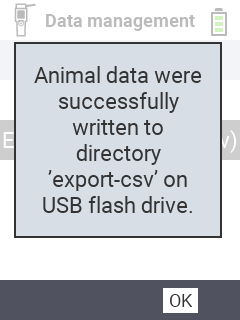
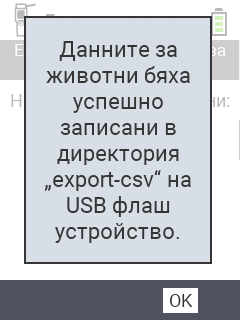
Data export: localization of images and strings used in firmware

diff --git a/content/ru/docs/data-export/usb-drive.md b/content/ru/docs/data-export/usb-drive.md
@@ -13,9 +13,9 @@ translationKey: data-export/usb-drive
 
 ## Выполнение экспорта данных {#perform-data-export}	
  
-1. Откройте пункт меню &nbsp;<img src="/icons/device.svg" width="23" align="bottom" alt="Устройство" /> `Устройство` на главном экране вашего устройства VitalControl.
+1. Откройте пункт меню &nbsp;<img src="/icons/device.svg" width="23" align="bottom" alt="Устройство" /> `{{<T "Device" >}}` на главном экране вашего устройства VitalControl.
 
-2. Вызовите подменю `Управление данными`, выберите пункт меню `Экспорт данных о животных (csv)` и подтвердите нажатием `OK`. Вам будет предложено вставить USB-флешку:
+2. Вызовите подменю `{{<T "DataManagement" >}}`, выберите пункт меню `{{<T "AnimalData" >}}` и подтвердите нажатием `{{<T "Ok" >}}`. Вам будет предложено вставить USB-флешку:
 
    ![VitalControl: Путь меню экспорта данных](../images/data-export.png "Вызов экспорта данных")
 
@@ -27,7 +27,7 @@ translationKey: data-export/usb-drive
 
    ![VitalControl: сообщение об успешном экспорте данных](../images/success-data-export.png "Успешный экспорт данных")
 
-5. Экспорт данных теперь завершен. Вы найдете четыре созданных [файла экспорта](../export-files/) в папке `export-csv` на вашей USB-флешке.
+5. Экспорт данных теперь завершен. Вы найдете четыре созданных [файла экспорта](../export-files/) в папке `{{<T "ExportAnimalData" >}}` на вашей USB-флешке.
 
    ![USB-флешка с файлами экспорта VitalControl](../images/export-files.png "Файлы экспорта на USB-флешке")
 

diff --git a/content/fr/docs/data-export/usb-drive.md b/content/fr/docs/data-export/usb-drive.md
@@ -13,9 +13,9 @@ translationKey: data-export/usb-drive
 
 ## Réaliser l'exportation des données {#perform-data-export}
 
-1. Ouvrez l'élément de menu &nbsp;<img src="/icons/device.svg" width="23" align="bottom" alt="Appareil" /> `Appareil` dans l'écran principal de votre appareil VitalControl.
+1. Ouvrez l'élément de menu &nbsp;<img src="/icons/device.svg" width="23" align="bottom" alt="Appareil" /> `{{<T "Device" >}}` dans l'écran principal de votre appareil VitalControl.
 
-2. Accédez au sous-menu `Gestion des données`, sélectionnez l'élément de menu `Exporter les données animales (csv)` et confirmez avec `OK`. Il vous sera alors demandé d'insérer une clé USB :
+2. Accédez au sous-menu `{{<T "DataManagement" >}}`, sélectionnez l'élément de menu `{{<T "AnimalData" >}}` et confirmez avec `{{<T "Ok" >}}`. Il vous sera alors demandé d'insérer une clé USB :
 
    ![VitalControl : Chemin du menu exportation des données](../images/data-export.png "Lancer l'exportation des données")
 
@@ -27,7 +27,7 @@ translationKey: data-export/usb-drive
 
    ![VitalControl : message de succès de l'exportation des données](../images/success-data-export.png "Succès de l'exportation des données")
 
-5. L'exportation des données est maintenant terminée. Vous trouverez les quatre fichiers d'exportation [fichiers d'exportation](../export-files/) dans le répertoire `export-csv` sur votre clé USB.
+5. L'exportation des données est maintenant terminée. Vous trouverez les quatre fichiers d'exportation [fichiers d'exportation](../export-files/) dans le répertoire `{{<T "ExportAnimalData" >}}` sur votre clé USB.
 
    ![Clé USB avec fichiers d'exportation VitalControl](../images/export-files.png "Fichiers d'exportation sur clé USB")
 

diff --git a/content/el/docs/data-export/usb-drive.md b/content/el/docs/data-export/usb-drive.md
@@ -13,11 +13,11 @@ translationKey: data-export/usb-drive
 
 ## Εκτέλεση εξαγωγής δεδομένων {#perform-data-export}	
 
-1. Ανοίξτε το στοιχείο μενού &nbsp;<img src="/icons/device.svg" width="23" align="bottom" alt="Συσκευή" /> `Συσκευή` στην κύρια οθόνη της συσκευής σας VitalControl.
+1. Ανοίξτε το στοιχείο μενού &nbsp;<img src="/icons/device.svg" width="23" align="bottom" alt="Συσκευή" /> `{{<T "Device" >}}` στην κύρια οθόνη της συσκευής σας VitalControl.
 
-2. Καλέστε το υπομενού `Διαχείριση δεδομένων`, επιλέξτε το στοιχείο μενού `Δεδομένα ζώων` και επιβεβαιώστε με `OK`.
+2. Καλέστε το υπομενού `{{<T "DataManagement" >}}`, επιλέξτε το στοιχείο μενού `{{<T "AnimalData" >}}` και επιβεβαιώστε με `{{<T "Ok" >}}`.
 
-3. Ανοίγει ένα άλλο υπομενού. Επιλέξτε το στοιχείο μενού `Εξαγωγή δεδομένων ζώων (csv)` και επιβεβαιώστε με `OK`.
+3. Ανοίγει ένα άλλο υπομενού. Επιλέξτε το στοιχείο μενού `{{<T "ExportAnimalData" >}}` και επιβεβαιώστε με `{{<T "Ok" >}}`.
 
 4. Τώρα σας ζητείται να εισάγετε ένα USB flash drive:
 

diff --git a/content/bg/docs/data-export/usb-drive.md b/content/bg/docs/data-export/usb-drive.md
@@ -13,11 +13,11 @@ translationKey: data-export/usb-drive
 
 ## Извършване на експорт на данни {#perform-data-export}	
 
-1. Отворете менюто &nbsp;<img src="/icons/device.svg" width="23" align="bottom" alt="Устройство" /> `Устройство` на главния екран на вашето устройство VitalControl.
+1. Отворете менюто &nbsp;<img src="/icons/device.svg" width="23" align="bottom" alt="Устройство" /> `{{<T "Device" >}}` на главния екран на вашето устройство VitalControl.
 
-2. Активирайте подменюто `Управление на данни`, изберете менюто `Данни за животни` и потвърдете с `OK`.
+2. Активирайте подменюто `{{<T "DataManagement" >}}`, изберете менюто `{{<T "AnimalData" >}}` и потвърдете с `{{<T "Ok" >}}`.
 
-3. Отваря се друго подменю. Изберете менюто `Експорт на данни за животни (csv)` и потвърдете с `OK`.
+3. Отваря се друго подменю. Изберете менюто `{{<T "ExportAnimalData" >}}` и потвърдете с `{{<T "Ok" >}}`.
 
 4. Сега ви се предлага да вмъкнете USB флаш устройство:
 

diff --git a/content/hu/docs/data-export/usb-drive.md b/content/hu/docs/data-export/usb-drive.md
@@ -13,11 +13,11 @@ translationKey: data-export/usb-drive
 
 ## Adatok exportálása {#perform-data-export}	
 
-1. Nyissa meg a menüpontot &nbsp;<img src="/icons/device.svg" width="23" align="bottom" alt="Eszköz" /> `Eszköz` a VitalControl eszköz főképernyőjén.
+1. Nyissa meg a menüpontot &nbsp;<img src="/icons/device.svg" width="23" align="bottom" alt="Eszköz" /> `{{<T "Device" >}}` a VitalControl eszköz főképernyőjén.
 
-2. Hívja elő az `Adatkezelés` almenüt, válassza az `Állatadatok` menüpontot, és erősítse meg az `OK` gombbal.
+2. Hívja elő az `{{<T "DataManagement" >}}` almenüt, válassza az `{{<T "AnimalData" >}}` menüpontot, és erősítse meg az `{{<T "Ok" >}}` gombbal.
 
-3. Egy másik almenü nyílik meg. Válassza az `Állatadatok exportálása (csv)` menüpontot, és erősítse meg az `OK` gombbal.
+3. Egy másik almenü nyílik meg. Válassza az `{{<T "ExportAnimalData" >}}` menüpontot, és erősítse meg az `{{<T "Ok" >}}` gombbal.
 
 4. Most kérni fogja, hogy helyezzen be egy USB flash meghajtót:
 

diff --git a/content/it/docs/data-export/usb-drive.md b/content/it/docs/data-export/usb-drive.md
@@ -13,11 +13,11 @@ translationKey: data-export/usb-drive
 
 ## Eseguire l'esportazione dei dati {#perform-data-export}	
 
-1. Apri l'elemento del menu &nbsp;<img src="/icons/device.svg" width="23" align="bottom" alt="Dispositivo" /> `Dispositivo` nella schermata principale del tuo dispositivo VitalControl.
+1. Apri l'elemento del menu &nbsp;<img src="/icons/device.svg" width="23" align="bottom" alt="Dispositivo" /> `{{<T "Device" >}}` nella schermata principale del tuo dispositivo VitalControl.
 
-2. Richiama il sottomenu `Gestione dati`, seleziona l'elemento del menu `Dati animali` e conferma con `OK`.
+2. Richiama il sottomenu `{{<T "DataManagement" >}}`, seleziona l'elemento del menu `{{<T "AnimalData" >}}` e conferma con `{{<T "Ok" >}}`.
 
-3. Si apre un altro sottomenu. Seleziona l'elemento del menu `Esporta dati animali (csv)` e conferma con `OK`.
+3. Si apre un altro sottomenu. Seleziona l'elemento del menu `{{<T "ExportAnimalData" >}}` e conferma con `{{<T "Ok" >}}`.
 
 4. Ora ti viene chiesto di inserire una chiavetta USB:
 

diff --git a/content/es/docs/data-export/usb-drive.md b/content/es/docs/data-export/usb-drive.md
@@ -13,11 +13,11 @@ translationKey: data-export/usb-drive
 
 ## Realizar la exportación de datos {#perform-data-export}	
 
-1. Abra el elemento del menú &nbsp;<img src="/icons/device.svg" width="23" align="bottom" alt="Dispositivo" /> `Dispositivo` en la pantalla principal de su dispositivo VitalControl.
+1. Abra el elemento del menú &nbsp;<img src="/icons/device.svg" width="23" align="bottom" alt="Dispositivo" /> `{{<T "Device" >}}` en la pantalla principal de su dispositivo VitalControl.
 
-2. Acceda al submenú `Gestión de datos`, seleccione la opción de menú `Datos animales` y confirme con `OK`.
+2. Acceda al submenú `{{<T "DataManagement" >}}`, seleccione la opción de menú `{{<T "AnimalData" >}}` y confirme con `{{<T "Ok" >}}`.
 
-3. Se abre otro submenú. Seleccione el punto de menú `Exportar datos de animales (csv)` y confirme con `OK`.
+3. Se abre otro submenú. Seleccione el punto de menú `{{<T "ExportAnimalData" >}}` y confirme con `{{<T "Ok" >}}`.
 
 4. Se le pedirá que introduzca una memoria USB:
 

diff --git a/content/fi/docs/data-export/usb-drive.md b/content/fi/docs/data-export/usb-drive.md
@@ -13,11 +13,11 @@ translationKey: data-export/usb-drive
 
 ## Suorita tietojen vienti {#perform-data-export}
 
-1. Avaa valikkokohta &nbsp;<img src="/icons/device.svg" width="23" align="bottom" alt="Laite" /> `Laite` päävalikosta VitalControl-laitteellasi.
+1. Avaa valikkokohta &nbsp;<img src="/icons/device.svg" width="23" align="bottom" alt="Laite" /> `{{<T "Device" >}}` päävalikosta VitalControl-laitteellasi.
 
-2. Kutsu esiin alivalikko `Tiedonhallinta`, valitse valikkokohta `Tietoa aliäimistä` ja vahvista valinta `OK`:lla.
+2. Kutsu esiin alivalikko `{{<T "DataManagement" >}}`, valitse valikkokohta `{{<T "AnimalData" >}}` ja vahvista valinta `{{<T "Ok" >}}`:lla.
 
-3. Toinen alivalikko avautuu. Valitse valikkokohta `Vie elaintiedot (csv)` ja vahvista `OK`.
+3. Toinen alivalikko avautuu. Valitse valikkokohta `{{<T "ExportAnimalData" >}}` ja vahvista `{{<T "Ok" >}}`.
 
    ![VitalControl: Valikkopolku tietojen vientiin](../images/data-export.png "Käynnistä tietojen vienti")
 

diff --git a/content/cs/docs/data-export/usb-drive.md b/content/cs/docs/data-export/usb-drive.md
@@ -13,11 +13,11 @@ translationKey: data-export/usb-drive
 
 ## Proveďte export dat {#perform-data-export}	
 
-1. Otevřete položku menu &nbsp;<img src="/icons/device.svg" width="23" align="bottom" alt="Zařízení" /> `Zařízení` na hlavní obrazovce vašeho zařízení VitalControl.
+1. Otevřete položku menu &nbsp;<img src="/icons/device.svg" width="23" align="bottom" alt="Zařízení" /> `{{<T "Device" >}}` na hlavní obrazovce vašeho zařízení VitalControl.
 
-2. Vyvolejte podmenu `Správa dat`, vyberte položku menu `Data o zvířatech` a potvrďte `OK`.
+2. Vyvolejte podmenu `{{<T "DataManagement" >}}`, vyberte položku menu `{{<T "AnimalData" >}}` a potvrďte `{{<T "Ok" >}}`.
 
-3. Otevře se další podmenu. Vyberte položku menu `Export dat o zvířatech (csv)` a potvrďte `OK`.
+3. Otevře se další podmenu. Vyberte položku menu `{{<T "ExportAnimalData" >}}` a potvrďte `{{<T "Ok" >}}`.
 
 4. Nyní budete vyzváni k vložení USB flash disku:
 

diff --git a/content/en/docs/data-export/usb-drive.md b/content/en/docs/data-export/usb-drive.md
@@ -13,11 +13,11 @@ translationKey: data-export/usb-drive
 
 ## Perform data export {#perform-data-export}
 
-1. Open the menu item &nbsp;<img src="/icons/device.svg" width="23" align="bottom" alt="Device" /> `Device` in the main screen of your VitalControl device.
+1. Open the menu item &nbsp;<img src="/icons/device.svg" width="23" align="bottom" alt="Device" /> `{{<T "Device" >}}` in the main screen of your VitalControl device.
 
-2. Invoke the submenu `Data management`, select the menu item `Animal data` and confirm with `OK`.
+2. Invoke the submenu `{{<T "DataManagement" >}}`, select the menu item `{{<T "AnimalData" >}}` and confirm with `{{<T "Ok" >}}`.
 
-3. Another submenu opens. Select the menu item `Export animal data (csv)` and confirm with `OK`.
+3. Another submenu opens. Select the menu item `{{<T "ExportAnimalData" >}}` and confirm with `{{<T "Ok" >}}`.
 
 4. You are now asked to insert an USB flash drive:
 

diff --git a/content/et/docs/data-export/usb-drive.md b/content/et/docs/data-export/usb-drive.md
@@ -13,11 +13,11 @@ translationKey: data-export/usb-drive
 
 ## Viige läbi andmete eksport {#perform-data-export}	
 
-1. Avage menüüpunkt &nbsp;<img src="/icons/device.svg" width="23" align="bottom" alt="Seade" /> `Seade` oma VitalControl seadme põhiekraanil.
+1. Avage menüüpunkt &nbsp;<img src="/icons/device.svg" width="23" align="bottom" alt="Seade" /> `{{<T "Device" >}}` oma VitalControl seadme põhiekraanil.
 
-2. Kutsuge esile alammenüü `Andmehaldus`, valige menüüpunkt `Looma andmed` ja kinnitage `OK`.
+2. Kutsuge esile alammenüü `{{<T "DataManagement" >}}`, valige menüüpunkt `{{<T "AnimalData" >}}` ja kinnitage `{{<T "Ok" >}}`.
 
-3. Avaneb veel üks alammenüü. Valige menüüpunkt `Ekspordi looma andmed (csv)` ja kinnitage `OK`.
+3. Avaneb veel üks alammenüü. Valige menüüpunkt `{{<T "ExportAnimalData" >}}` ja kinnitage `{{<T "Ok" >}}`.
 
 4. Teilt küsitakse nüüd USB mälupulga sisestamist:
 
